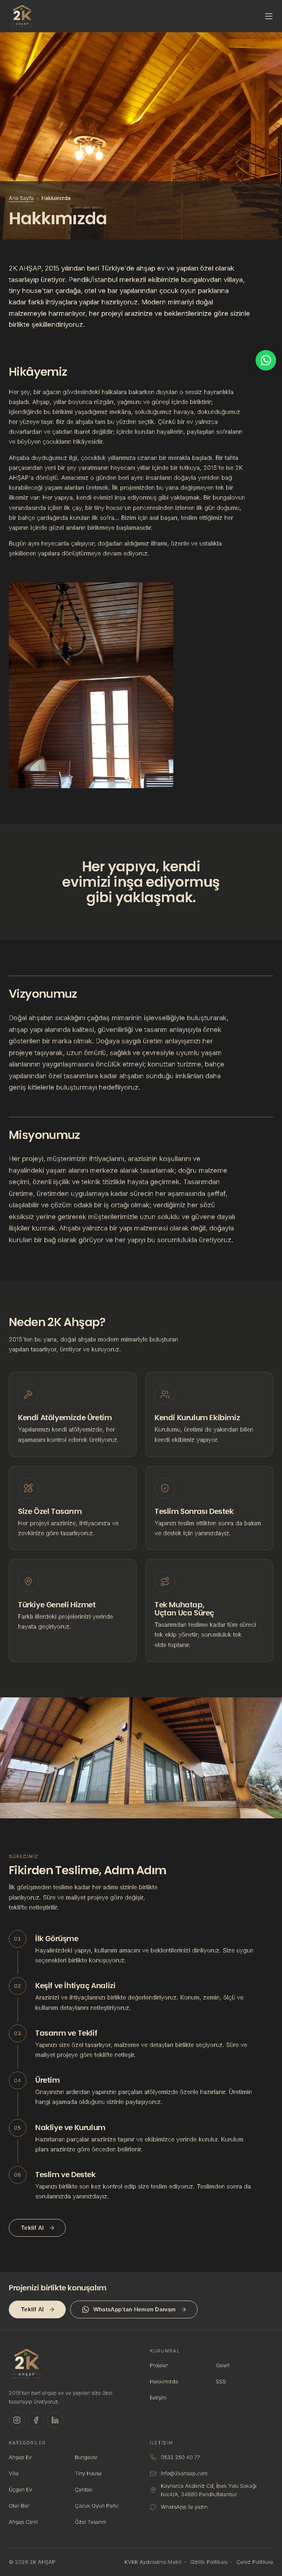
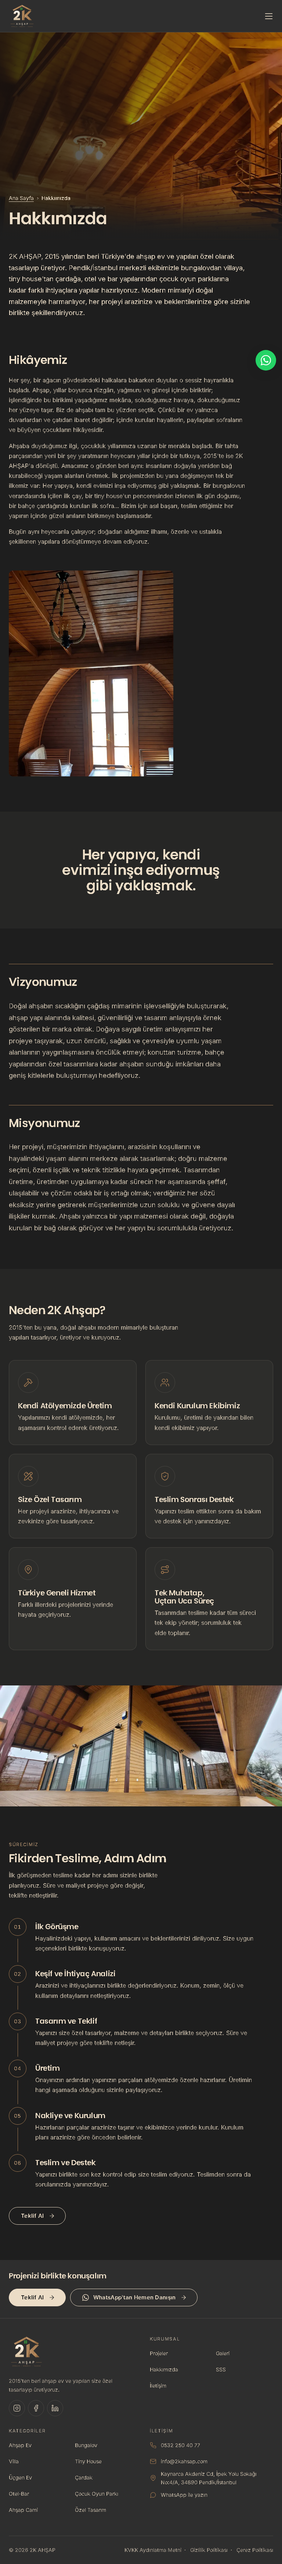
Hakkımızda açılışında fotoğrafı kesen bandı kaldır, ana sayfa hero'sunun karartmasını kullan
- Breadcrumb ve H1 fotoğrafın sol altında; karartma hero'nunkiyle birebir aynı (≥ 641px yatay karartma + alt
  %30'un zemine erimesi, telefonda alt %45'in erimesi + başlığa bağlı %70 rampa); sert kenarlı bant yok
- Hero'nun yatay karartması global token oldu (--karartma-yatay); ana sayfa görünümü değişmedi (gorsel-kontrol %0)
- marka-stili'ndeki Hakkımızda istisnası güncellendi (müşteri seçimi a)
- Hakkımızda görsel referansları yenilendi; önce/sonra görselleri docs/hakkimizda/acilis-v3/

diff --git a/src/styles/global.css b/src/styles/global.css
@@ -51,6 +51,15 @@
     rgba(30, 30, 30, 0.03) 90%,
     rgba(30, 30, 30, 0) 100%
   );
+  /* Fotoğraf üstündeki yatay karartma (ana sayfa hero'su ve Hakkımızda açılışı, ≥ 641px): metnin durduğu solda en
+     koyu, sağa doğru açılır. Rengi gecenin biraz koyusu (rgb 20 18 16). */
+  --karartma-yatay: linear-gradient(
+    90deg,
+    rgb(20 18 16 / 0.85) 0%,
+    rgb(20 18 16 / 0.65) 35%,
+    rgb(20 18 16 / 0.25) 65%,
+    rgb(20 18 16 / 0.1) 100%
+  );
   /* Formlar. Girdi kenarı bileşen sınırıdır (WCAG 1.4.11): gece ve kart yüzeyi üstünde ≥ 3.2:1 */
   --color-cizgi-girdi: rgba(235, 220, 198, 0.45);
   --color-yuzey-secili: rgba(235, 220, 198, 0.08); /* seçili seçenek kartı */

diff --git a/.claude/skills/marka-stili/SKILL.md b/.claude/skills/marka-stili/SKILL.md
@@ -245,7 +245,7 @@ Hareket sakin ve tek seferliktir; içeriği öne çıkarır, dikkat dağıtmaz. 
 - Hero fotoğrafları `scripts/hero-gorseli.mjs` ile üretilir (kadraj, sıcak renk düzeltmesi, netlik; kaynak dosyaya dokunulmaz).
 - Hero görseli LCP öğesidir: `loading="eager"`, `fetchpriority="high"`, WebP/AVIF, `srcset` ile boyutlandırılmış. Lazy-load yapılmaz.
 - Alt sayfalarda (kategori, proje) daha kısa bir başlık bandı (~40svh) kullanılır; zemini ara bölüm tonudur.
-- **Hakkımızda istisnası** (müşteri onaylı, 15 Ekim 2026; `docs/hakkimizda/yeniden-tasarim/`, açılış bandı `docs/hakkimizda/acilis/`): Açılış tam genişlikte bir proje fotoğrafıdır (mobil 60svh, ≥ 768px 55svh, ≥ 1024px 70svh). Fotoğrafın altındaki ince bantta yalnızca breadcrumb ve H1 durur; bant fotoğrafın en az üçte ikisini açık bırakır ve H1 her ekranda ilk ekranda görünür. Bandın zemini düz gece karartmasıdır (`--color-karartma`); gradyan kullanılmaz. Tanıtım metni fotoğrafın üstünde değil, altında düz gece zeminde durur. Header antrasit kalır.
+- **Hakkımızda istisnası** (müşteri onaylı, 15 Ekim 2026; `docs/hakkimizda/yeniden-tasarim/`, açılış `docs/hakkimizda/acilis-v3/`): Açılış tam genişlikte bir proje fotoğrafıdır (mobil 60svh, ≥ 768px 55svh, ≥ 1024px 70svh). Breadcrumb ve H1 fotoğrafın sol altında durur; karartma ana sayfa hero'sununkiyle birebir aynıdır (≥ 641px'te `--karartma-yatay` + alt %30'un zemine erimesi; telefonda alt %45'in erimesi + başlık bloğuna bağlı %70 rampa). Fotoğrafı yatayda kesen sert kenarlı bant kullanılmaz. Tanıtım metni fotoğrafın altında, düz gece zeminde durur. Header antrasit kalır.
 
 ### Header (her sayfada)
 - Koyu: ana sayfada hero fotoğrafının üzerinde şeffaf; diğer sayfalarda antrasit zemin. Kaydırınca sabitlenen header da koyu kalır.

diff --git a/docs/hakkimizda/acilis-v3/README.md b/docs/hakkimizda/acilis-v3/README.md
@@ -1,0 +1,29 @@
+# Hakkımızda açılışı, 3. tur (15 Ekim 2026, müşteri onaylı: a)
+
+Sorun: fotoğrafın ortasından geçen sert, düz kenarlı yarı saydam bant fotoğrafı yatayda ikiye bölüyordu.
+
+## Uygulanan: ana sayfa hero'sunun yöntemi (Hero.astro)
+
+Tam genişlik fotoğraf, breadcrumb ve H1 sol altta; karartma hero'nunkiyle birebir aynı:
+
+- **≥ 641px:** Soldan sağa yatay gradyan (`--karartma-yatay`, rengi rgb 20 18 16): %85 (sol kenar) → %65 (%35)
+  → %25 (%65) → %10 (sağ kenar). Alt %30'da fotoğraf sayfa zeminine erir (`--zemine-eris`).
+  Ana sayfa hero'su da artık aynı token'ı kullanır (görünümü değişmedi, gorsel-kontrol %0).
+- **≤ 640px:** Fotoğrafın alt %45'i zemine erir; başlık bloğunun 64px üstünden başlayan rampayla %70 gece
+  karartması (`--color-karartma`) başlığın altına ve yanlarına yayılır.
+
+Tanıtım metni fotoğrafın altında, düz gece zeminde. b (yan yana) ve c (fotoğraf üstte, metin altında) seçenekleri
+önizlemede kaldı.
+
+## Denetim
+
+Fotoğraf kutusunun içinde komşu iki satır arasında aynı yönde ≥ 12 parlaklık düzeyi sıçrayan sütunların oranı
+(yatay sert kenar ≈ satırın tamamı):
+
+| Ekran | önce | a | H1 ilk ekranda |
+|---|---|---|---|
+| 1366×657 | %79 (bant kenarı) | %17 | evet (445–524) |
+| 1920×950 | %72 (bant kenarı) | %16 | evet (650–729) |
+| 375×667 | %83 (bant kenarı) | %32 (H1 harfleri) | evet (420–464) |
+
+Görseller: `{1366x657,1920x950,375x667}-{once,a}.png`

diff --git a/docs/hakkimizda/acilis/README.md b/docs/hakkimizda/acilis/README.md
@@ -1,5 +1,7 @@
 # Hakkımızda açılışı (15 Ekim 2026, müşteri onaylı: a)
 
+> Aynı gün yerini 3. tura bıraktı: `docs/hakkimizda/acilis-v3/` (ince bant da fotoğrafı yatayda kestiği için kaldırıldı).
+
 ## Sorun
 
 Uzun tanıtım paragrafı fotoğrafın üstündeki düz karartmalı bandın içindeydi. Bant fotoğrafın yarısını kaplıyor,
